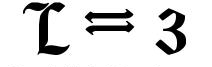
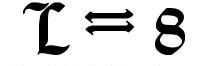
push

diff --git a/housescape.js b/housescape.js
@@ -37,6 +37,9 @@ window.onmessage = function(e) {
         case 'secondo_enigma':
             secondo_enigma_risolto();
             break;
+        case 'terzo_enigma':
+            terzo_enigma_risolto();
+            break;
         ///// Aggiungere altri 'case statements' per gestire le chiamate dai figli al padre
         /////
         default:
@@ -135,4 +138,7 @@ function primo_enigma_risolto(){
 }
 function secondo_enigma_risolto(){
     document.getElementById("secondo_enigma").style.display = "inline";
+}
+function terzo_enigma_risolto(){
+    document.getElementById("terzo_enigma").style.display = "inline";
 }

diff --git a/page3.js b/page3.js
@@ -7,11 +7,15 @@ $(document).ready(function(e) {
 $("#type_writer").rwdImageMaps();
 });
 <<<<<<< HEAD
+<<<<<<< HEAD
 $("#terzo_enigma").on('input', function() {
+=======
+$("#tre").on('input', function() {
+>>>>>>> b6a92f6 (push)
     terzo_enigma();
 });
 function terzo_enigma(){
-    var mirror = document.getElementById("terzo_enigma").value;
+    var mirror = document.getElementById("tre").value;
     if(mirror=="specchio"){
         alert("parola corretta");
         $("#type").css("cursor","default");

diff --git a/index/stile.css b/index/stile.css
@@ -324,3 +324,6 @@ function scrollFunction() {
     width:8vw;
     height:auto;
 }
+#terzo_enigma{
+    
+}

diff --git a/page3.php b/page3.php
@@ -23,7 +23,7 @@
         </map>
         <div id="macchina_da_scrivere" class="popup_macchina_da_scrivere">
             <div class="foglio">
-                <form><input type="text" id="terzo_enigma" name="indovinello" minlenght="1" size="10" class="campo_scrivibile"></form>
+                <form><input type="text" id="tre" name="indovinello" minlenght="1" size="10" class="campo_scrivibile"></form>
             </div>
             <img src="./img/macchina_da_scrivere.png" class="foto_mds">
         </div>

diff --git a/primo_livello.php b/primo_livello.php
@@ -46,6 +46,7 @@ $_SESSION['begin_game'] = true;
       <div class="enigmi">
         <img src="./img/primo_enigma.jpg" id = "primo_enigma">
         <img src="./img/secondo_enigma.jpg" id = "secondo_enigma">
+        <img src="./img/terzo_enigma.jpg" id = "terzo_enigma">
   </div>
         <div class="carousel-inner">
           <div class="carousel-item active">
